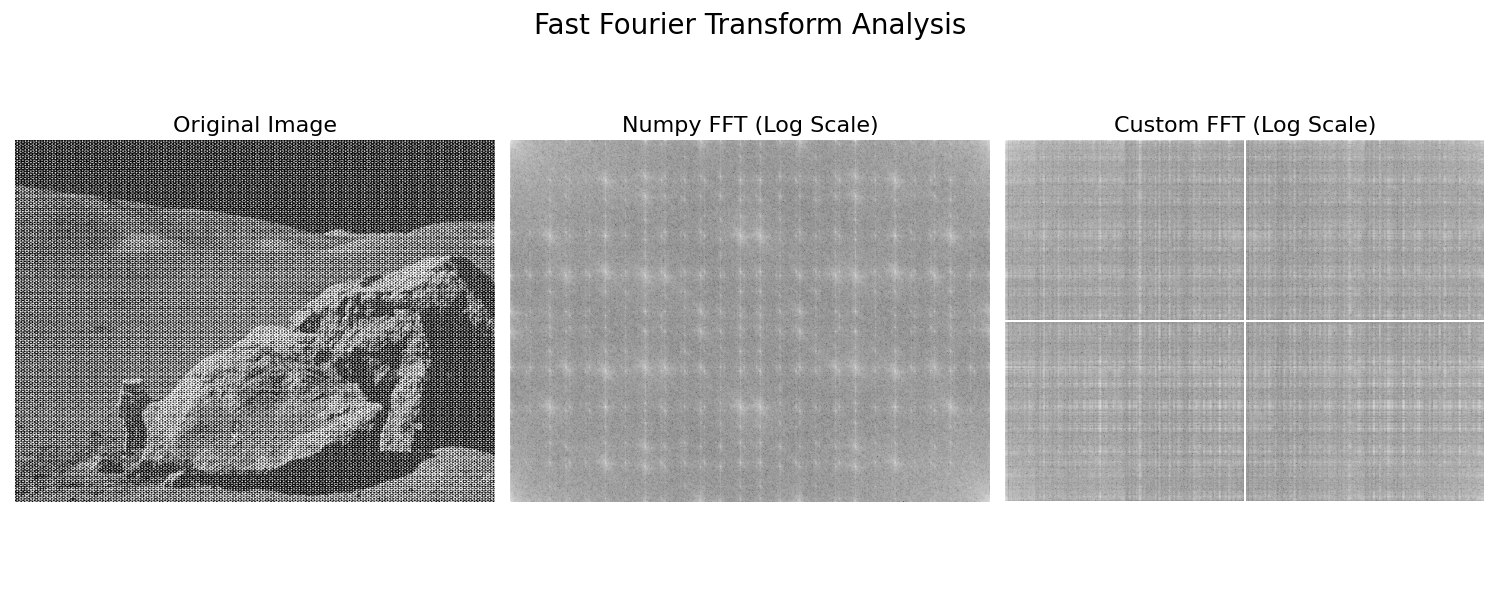
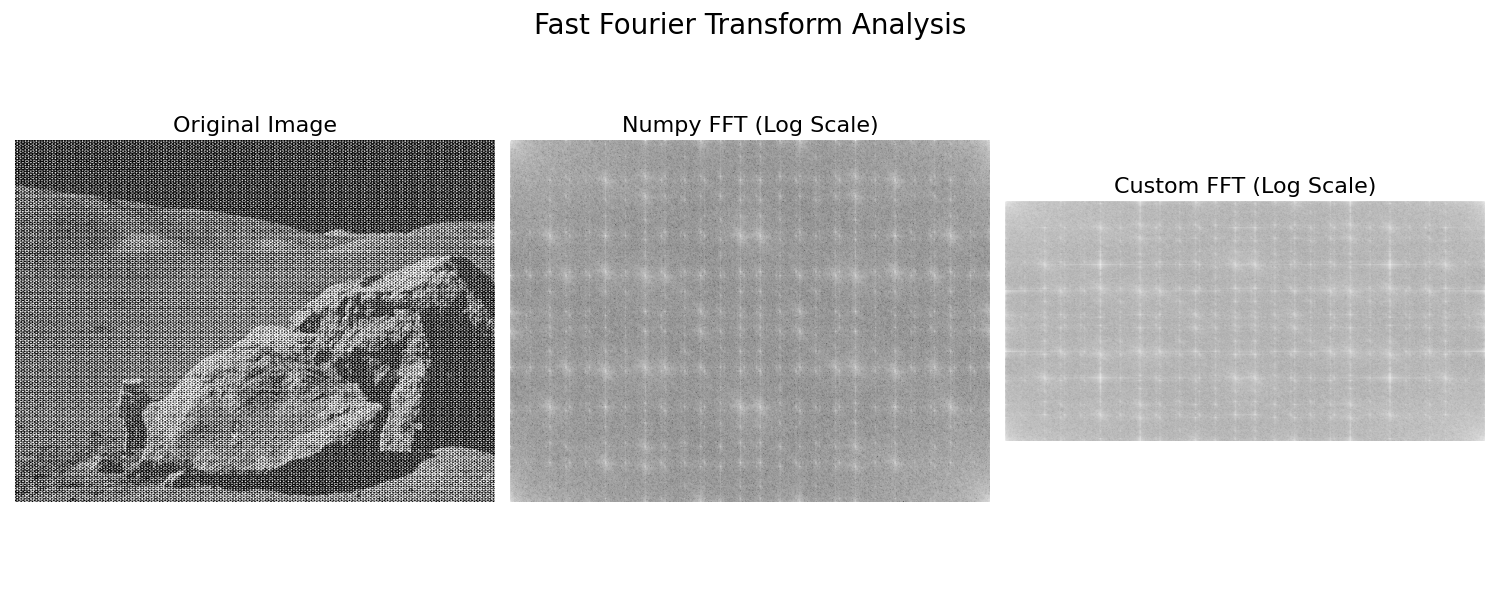
Fixed FFT but image must have sides of 2^N other will fail

Changed region(s): [[0.644, 0.18, 1.0, 0.84]]

diff --git a/src/FastFourierTransform.py b/src/FastFourierTransform.py
@@ -4,21 +4,46 @@ class FastFourierTransform:
     def __init__(self):
         pass
 
-    def fft_1D(self, X: np.ndarray) -> np.ndarray:
-        """Compute the 1D Fast Fourier Transform."""
+        
+    def fft_1D_matrix(self, X: np.ndarray) -> np.ndarray:
+        """Compute the 1D Fast Fourier Transform using the Cooley-Tukey algorithm."""
         N = X.size
-        if N == 1:
+        if N <= 1:
             return X
+        
+        # Split the signal into even and odd indices and Recursively compute FFT
+        X_even = self.fft_1D_matrix(X[0::2])  # Start at 0 and increment by 2
+        X_odd = self.fft_1D_matrix(X[1::2])  # Start at 1 and increment by 2
 
-        # Split the signal into even and odd indices
-        X_even = self.fft_1D(X[0::2])  # Start at 0 and increment by 2
-        X_odd = self.fft_1D(X[1::2])  # Start at 1 and increment by 2
-
-        # Result placeholder
+        # Create a vector for such that k = 0, 1, 2, ..., N/2-1
+        k =  np.arange(N // 2)
+        # Compute Twiddle factors
+        factor = np.exp(-2j * np.pi * k / N)
+        
+        # for k in range(N // 2):
+        # X[k] = X_even[k] + factor[k] * X_odd[k]
+        even = X_even + factor * X_odd
+        #    X[k + N // 2] = X_even[k] - factor[k] * X_odd[k]
+        odd = X_even - factor * X_odd
+        
+        # Concatenate the even and odd indices
+        result = np.concatenate([even, odd])
+        return result
+        
+    def fft_1D_loop(self, X: np.ndarray) -> np.ndarray:
+        """Compute the 1D Fast Fourier Transform using the Cooley-Tukey algorithm."""
+        N = X.size
+        if N <= 1:
+            return X
+        
+        # Split the signal into even and odd indices and Recursively compute FFT
+        X_even = self.fft_1D_loop(X[0::2])  # Start at 0 and increment by 2
+        X_odd = self.fft_1D_loop(X[1::2])  # Start at 1 and increment by 2
+        
         result = np.zeros(N, dtype=complex)
 
         # Here we know that N/2 -1 is the last index of X_even
-        for k in range( int(N / 2 - 1)):  # for k = 0, 1, 2, ..., N/2-1
+        for k in range(N // 2):  # for k = 0, 1, 2, ..., N/2-1
             p = X_even[k]
             q = np.exp(-2j * np.pi * k / N) * X_odd[k]
             result[k] = p + q
@@ -27,13 +52,23 @@ class FastFourierTransform:
 
     def fft_2D(self, X: np.ndarray) -> np.ndarray:
         """Compute the 2D Fast Fourier Transform."""
+        
+        # TODO: Fix size :)
         M, N = X.shape
+        print(M, N)
+        M_padded = 2**int(np.ceil(np.log2(M)))
+        N_padded = 2**int(np.ceil(np.log2(N)))
+        X_padded = np.zeros((M_padded, N_padded), dtype=complex)
+        X_padded[:M, :N] = X
+        X = X_padded
+        M, N = X.shape
+        print(M, N)
         result = np.zeros((M, N), dtype=complex)
 
         for m in range(M):
-            result[m, :] = self.fft_1D(X[m, :])
+            result[m, :] = self.fft_1D_matrix(X[m, :])
 
         for n in range(N):
-            result[:, n] = self.fft_1D(result[:, n])
+            result[:, n] = self.fft_1D_matrix(result[:, n])
 
         return result

diff --git a/src/fftQuery.py b/src/fftQuery.py
@@ -75,6 +75,7 @@ class fftQuery:
 
     @classmethod
     def convert_image_to_numpy_array(cls, image_name: str) -> np.ndarray:
+        #TODO: Ensure sides are 2^n for FFT
         return np.array(cv2.imread(image_name, cv2.IMREAD_GRAYSCALE))
 
     def get_mode(self) -> str:
